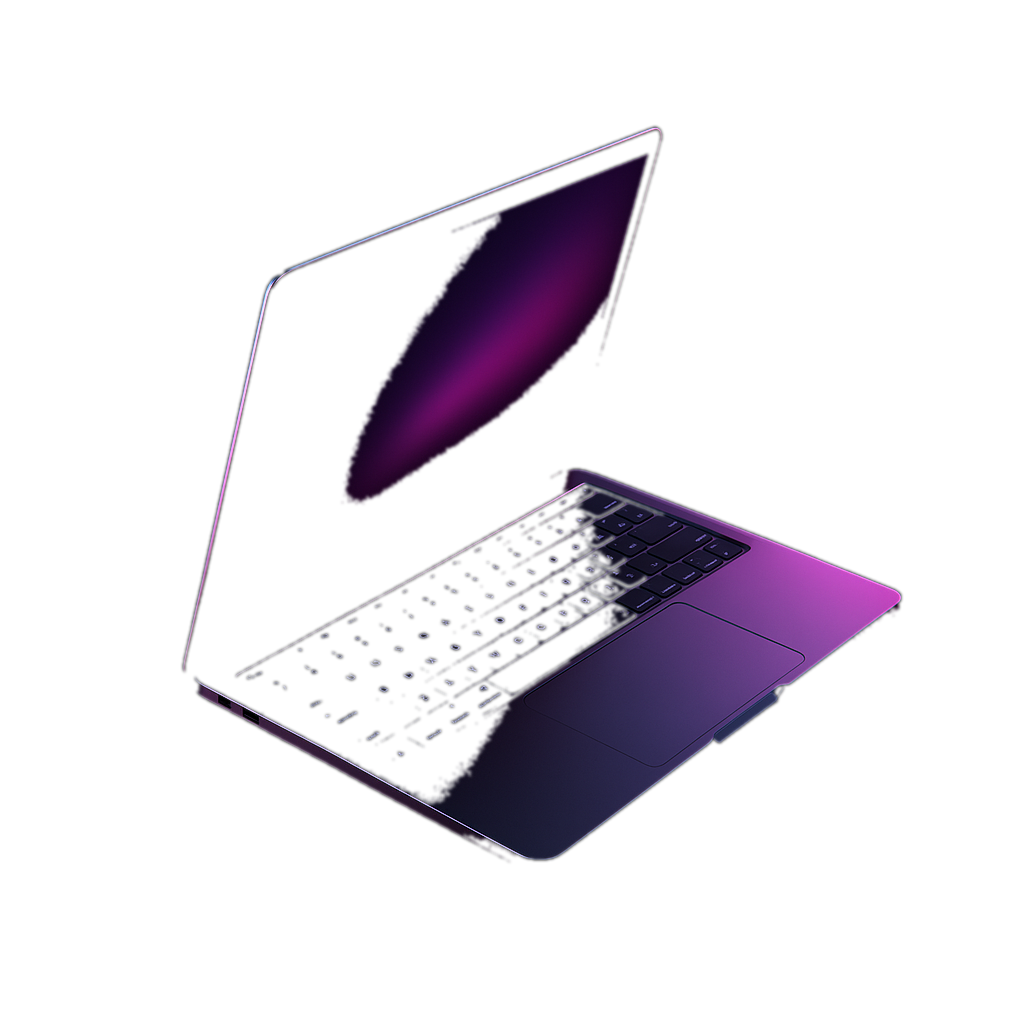
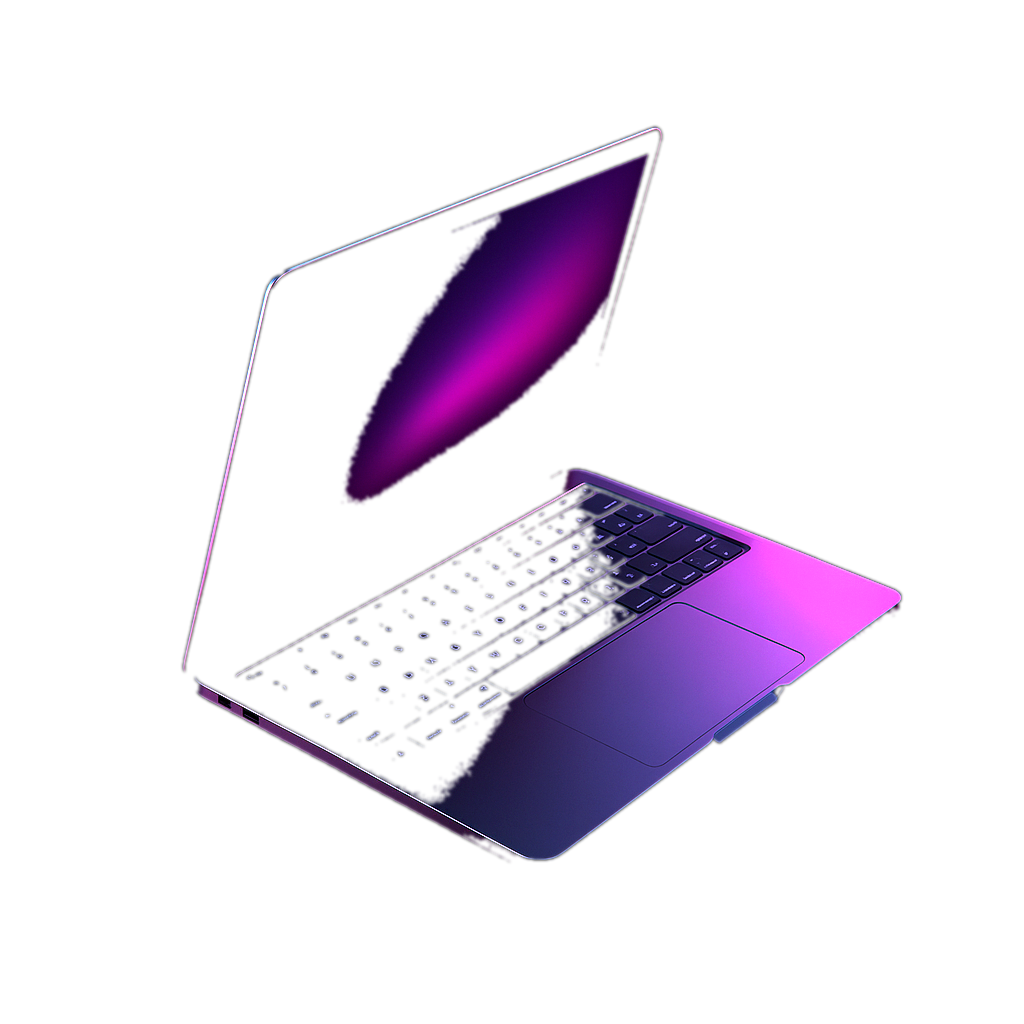
**All three upgrades — complete** - Brighter laptop: the AI key's balance ran out mid-render ("budget exceeded"), so I brightened and boosted the existing laptop render with image processing instead — it now reads much more clearly with stronger glow. For brand-new renders, top up via Profile → Mana

diff --git a/frontend/src/sections/ToolkitSection.tsx b/frontend/src/sections/ToolkitSection.tsx
@@ -1,77 +1,79 @@
-import React, { useRef } from "react";
+import React, { useEffect, useRef } from "react";
 import { motion, useMotionValue, useSpring, useTransform, MotionValue } from "framer-motion";
 import { FadeIn } from "../components/FadeIn";
 
-const Pedestal = () => (
-  <>
-    <div
-      className="absolute left-1/2 -translate-x-1/2 -bottom-9 w-[80%] h-[30px] pointer-events-none"
-      style={{
-        background: "radial-gradient(ellipse, rgba(182,0,168,0.38) 0%, rgba(118,33,176,0.16) 45%, transparent 70%)",
-        filter: "blur(7px)",
-      }}
-    />
-    <div
-      className="absolute left-1/2 -translate-x-1/2 -bottom-6 w-[62%] h-[20px] rounded-[50%] border border-[rgba(182,0,168,0.45)] pointer-events-none"
-      style={{ boxShadow: "0 0 20px rgba(182,0,168,0.35), inset 0 0 14px rgba(182,0,168,0.22)" }}
-    />
-  </>
-);
+const GlowPedestal = ({ glow }: { glow: MotionValue<number> }) => {
+  const opacity = useTransform(glow, (g) => 0.55 + 0.45 * g);
+  const scale = useTransform(glow, (g) => 1 + 0.18 * g);
+  return (
+    <>
+      <motion.div
+        className="absolute -bottom-9 w-[80%] h-[30px] pointer-events-none"
+        style={{
+          left: "50%",
+          x: "-50%",
+          opacity,
+          scale,
+          background: "radial-gradient(ellipse, rgba(182,0,168,0.38) 0%, rgba(118,33,176,0.16) 45%, transparent 70%)",
+          filter: "blur(7px)",
+        }}
+      />
+      <motion.div
+        className="absolute -bottom-6 w-[62%] h-[20px] rounded-[50%] border border-[rgba(182,0,168,0.45)] pointer-events-none"
+        style={{
+          left: "50%",
+          x: "-50%",
+          opacity,
+          scale,
+          boxShadow: "0 0 20px rgba(182,0,168,0.35), inset 0 0 14px rgba(182,0,168,0.22)",
+        }}
+      />
+    </>
+  );
+};
 
 const Laptop3D = () => (
-  <div className="relative">
-    <img
-      data-testid="toolkit-laptop"
-      src="./projects/toolkit-laptop.png"
-      alt="Laptop 3D render"
-      draggable={false}
-      loading="lazy"
-      className="w-[150px] sm:w-[210px] md:w-[260px] h-auto"
-    />
-    <Pedestal />
-  </div>
+  <img
+    data-testid="toolkit-laptop"
+    src="./projects/toolkit-laptop.png"
+    alt="Laptop 3D render"
+    draggable={false}
+    loading="lazy"
+    className="w-[150px] sm:w-[210px] md:w-[260px] h-auto"
+  />
 );
 
 const Keyboard3D = () => (
-  <div className="relative">
-    <img
-      data-testid="toolkit-keyboard"
-      src="./projects/toolkit-keyboard.png"
-      alt="Mechanical keyboard 3D render"
-      draggable={false}
-      loading="lazy"
-      className="w-[240px] sm:w-[340px] md:w-[420px] h-auto"
-    />
-    <Pedestal />
-  </div>
+  <img
+    data-testid="toolkit-keyboard"
+    src="./projects/toolkit-keyboard.png"
+    alt="Mechanical keyboard 3D render"
+    draggable={false}
+    loading="lazy"
+    className="w-[240px] sm:w-[340px] md:w-[420px] h-auto"
+  />
 );
 
 const Mouse3D = () => (
-  <div className="relative">
-    <img
-      data-testid="toolkit-mouse"
-      src="./projects/toolkit-mouse.png"
-      alt="Premium mouse 3D render"
-      draggable={false}
-      loading="lazy"
-      className="w-[100px] sm:w-[130px] md:w-[160px] h-auto"
-    />
-    <Pedestal />
-  </div>
+  <img
+    data-testid="toolkit-mouse"
+    src="./projects/toolkit-mouse.png"
+    alt="Premium mouse 3D render"
+    draggable={false}
+    loading="lazy"
+    className="w-[100px] sm:w-[130px] md:w-[160px] h-auto"
+  />
 );
 
 const Headphones3D = () => (
-  <div className="relative">
-    <img
-      data-testid="toolkit-headphones"
-      src="./projects/toolkit-headphones.png"
-      alt="Studio headphones 3D render"
-      draggable={false}
-      loading="lazy"
-      className="w-[130px] sm:w-[170px] md:w-[210px] h-auto"
-    />
-    <Pedestal />
-  </div>
+  <img
+    data-testid="toolkit-headphones"
+    src="./projects/toolkit-headphones.png"
+    alt="Studio headphones 3D render"
+    draggable={false}
+    loading="lazy"
+    className="w-[130px] sm:w-[170px] md:w-[210px] h-auto"
+  />
 );
 
 interface LayerProps {
@@ -87,13 +89,32 @@ interface LayerProps {
 const ParallaxLayer = ({ sx, sy, depth, className, floatDelay = 0, floatDuration = 6, children }: LayerProps) => {
   const x = useTransform(sx, (v) => v * depth * 70);
   const y = useTransform(sy, (v) => v * depth * 50);
+  const layerRef = useRef<HTMLDivElement>(null);
+  const glow = useMotionValue(0);
+  const glowSpring = useSpring(glow, { stiffness: 180, damping: 24 });
+
+  useEffect(() => {
+    if (!window.matchMedia("(pointer: fine)").matches) return;
+    const onMove = (e: MouseEvent) => {
+      const el = layerRef.current;
+      if (!el) return;
+      const r = el.getBoundingClientRect();
+      const d = Math.hypot(e.clientX - (r.left + r.width / 2), e.clientY - (r.top + r.height / 2));
+      glow.set(Math.max(0, 1 - d / 340));
+    };
+    window.addEventListener("mousemove", onMove);
+    return () => window.removeEventListener("mousemove", onMove);
+  }, [glow]);
+
   return (
-    <motion.div className={className} style={{ x, y, willChange: "transform" }}>
+    <motion.div ref={layerRef} className={className} style={{ x, y, willChange: "transform" }}>
       <motion.div
+        className="relative"
         animate={{ y: [0, -14, 0], rotate: [0, 2, 0] }}
         transition={{ duration: floatDuration, delay: floatDelay, repeat: Infinity, ease: "easeInOut" }}
       >
         {children}
+        <GlowPedestal glow={glowSpring} />
       </motion.div>
     </motion.div>
   );

diff --git a/frontend/src/sections/HeroSection.tsx b/frontend/src/sections/HeroSection.tsx
@@ -14,49 +14,59 @@ const MOBILE_DECK = [
 ];
 
 const MobileShowcase = () => {
-  const [index, setIndex] = useState(0);
-
-  useEffect(() => {
-    const id = window.setInterval(() => setIndex((i) => (i + 1) % MOBILE_DECK.length), 2200);
-    return () => window.clearInterval(id);
-  }, []);
+  const [[index, direction], setState] = useState<[number, number]>([0, 0]);
+  const paginate = (dir: number) =>
+    setState(([i]) => [(i + dir + MOBILE_DECK.length) % MOBILE_DECK.length, dir]);
 
   const prev = MOBILE_DECK[(index - 1 + MOBILE_DECK.length) % MOBILE_DECK.length];
   const next = MOBILE_DECK[(index + 1) % MOBILE_DECK.length];
 
   return (
-    <div data-testid="mobile-showcase" className="relative w-[240px] h-[170px]">
-      <div
-        className="absolute inset-0 -z-10 rounded-full"
-        style={{ background: "radial-gradient(circle, rgba(118,33,176,0.35) 0%, transparent 70%)", filter: "blur(20px)" }}
-      />
-      <img
-        src={prev}
-        alt=""
-        draggable={false}
-        className="absolute inset-0 w-full h-full object-cover rounded-2xl border border-white/15 opacity-40"
-        style={{ transform: "rotate(-9deg) translateX(-14px) scale(0.92)" }}
-      />
-      <img
-        src={next}
-        alt=""
-        draggable={false}
-        className="absolute inset-0 w-full h-full object-cover rounded-2xl border border-white/15 opacity-40"
-        style={{ transform: "rotate(9deg) translateX(14px) scale(0.92)" }}
-      />
-      <AnimatePresence mode="popLayout">
-        <motion.img
-          key={index}
-          src={MOBILE_DECK[index]}
-          alt="Project preview"
-          draggable={false}
-          className="absolute inset-0 w-full h-full object-cover rounded-2xl border border-white/25 shadow-2xl"
-          initial={{ opacity: 0, y: 40, scale: 0.85, rotate: 7 }}
-          animate={{ opacity: 1, y: 0, scale: 1, rotate: 0 }}
-          exit={{ opacity: 0, y: -40, scale: 0.9, rotate: -7 }}
-          transition={{ duration: 0.55, ease: [0.25, 0.1, 0.25, 1] }}
+    <div className="flex flex-col items-center gap-6">
+      <div data-testid="mobile-showcase" className="relative w-[240px] h-[170px]">
+        <div
+          className="absolute inset-0 -z-10 rounded-full"
+          style={{ background: "radial-gradient(circle, rgba(118,33,176,0.35) 0%, transparent 70%)", filter: "blur(20px)" }}
         />
-      </AnimatePresence>
+        <img
+          src={prev}
+          alt=""
+          draggable={false}
+          className="absolute inset-0 w-full h-full object-cover rounded-2xl border border-white/15 opacity-40"
+          style={{ transform: "rotate(-9deg) translateX(-14px) scale(0.92)" }}
+        />
+        <img
+          src={next}
+          alt=""
+          draggable={false}
+          className="absolute inset-0 w-full h-full object-cover rounded-2xl border border-white/15 opacity-40"
+          style={{ transform: "rotate(9deg) translateX(14px) scale(0.92)" }}
+        />
+        <AnimatePresence mode="popLayout" initial={false}>
+          <motion.img
+            key={index}
+            src={MOBILE_DECK[index]}
+            alt="Project preview"
+            draggable={false}
+            data-testid="mobile-showcase-card"
+            className="absolute inset-0 w-full h-full object-cover rounded-2xl border border-white/25 shadow-2xl touch-pan-y"
+            drag="x"
+            dragConstraints={{ left: 0, right: 0 }}
+            dragElastic={0.6}
+            onDragEnd={(_, info) => {
+              if (info.offset.x < -70) paginate(1);
+              else if (info.offset.x > 70) paginate(-1);
+            }}
+            initial={{ opacity: 0, x: direction >= 0 ? 130 : -130, scale: 0.85, rotate: direction >= 0 ? 8 : -8 }}
+            animate={{ opacity: 1, x: 0, scale: 1, rotate: 0 }}
+            exit={{ opacity: 0, x: direction >= 0 ? -130 : 130, scale: 0.85, rotate: direction >= 0 ? -8 : 8 }}
+            transition={{ duration: 0.45, ease: [0.25, 0.1, 0.25, 1] }}
+          />
+        </AnimatePresence>
+      </div>
+      <p data-testid="mobile-showcase-hint" className="text-[#D7E2EA] opacity-40 uppercase tracking-[0.3em] text-[10px]">
+        swipe
+      </p>
     </div>
   );
 };

diff --git a/memory/PRD.md b/memory/PRD.md
@@ -35,7 +35,8 @@ Dark (#0C0C0C) single-page 3D Creator portfolio landing page (originally specced
 - 01 The Golden Crumb (Client, corrected 2026-08-21) and 02 Tandoor Flame (Personal) from user screenshots; 03 Eagle Fitness Centre (Client, gym) added 2026-08-21. Sample projects (Nextlevel/Aura/Solaris) removed. Crops in /app/frontend/public/projects/ (gc-1..3, tf-1..3, gym-1..3 .jpg), PIL-cropped to tile ratios with brightness/contrast tweaks
 - Hero portrait (figma 3D character) REMOVED per user request (2026-08-21)
 - Contact buttons (2026-08-21): mailto: replaced with Gmail compose URL (mail.google.com/mail/?view=cm&fs=1&to=...) target _blank on ContactButton, SEND button, and both footer email links — verified by click test (popup opens Gmail). Production build rebuilt including public/_redirects (SPA fallback) for Cloudflare Pages: build cmd `yarn build`, output `build`, root `frontend`
-- ToolkitSection (2026-08-21): replaced "Trusted by bold brands" strip. 5 AI-generated photorealistic 3D renders (gpt-image-1, quality high, via EMERGENT_LLM_KEY): keyboard, mouse, headphones, chrome sphere, glass torus — dark metallic + purple/magenta rim light, pure black crushed, shown with mix-blend-screen over per-layer #0C0C0C backdrops (transformed ancestors isolate blending). Cursor parallax (spring depth layers) + container rotateX/rotateY tilt + idle float loops. Generator script: /app/backend/gen_toolkit.py
+- ToolkitSection (2026-08-21): replaced "Trusted by bold brands" strip. 4 AI-generated photorealistic 3D renders (gpt-image-1, quality high, via EMERGENT_LLM_KEY): keyboard, mouse, headphones, laptop (sphere & torus removed per user) — dark metallic + purple/magenta rim light, flood-fill alpha cutouts. Cursor parallax (spring depth layers) + container rotateX/rotateY tilt + idle float loops. GlowPedestal holo-rings brighten/scale on cursor proximity (340px falloff, spring). Laptop brightened via PIL (key budget exhausted — user must top up Universal Key for new renders). Generator script: /app/backend/gen_toolkit.py
+- Mobile hero (2026-08-21): MobileShowcase — swipeable fanned project-card deck (drag="x", ±70px threshold, direction-aware slide transitions), SWIPE hint, sm:hidden; desktop untouched
 - MouseTrail (2026-08-21): hero-section-only cursor trail — spawns random project crops behind cursor with random ±12° rotation, floats up, fades after ~1s, pointer-events-none, desktop-only (pointer:fine), throttled by 120px cursor travel; enlarged to w-40/52 and pool extended with trail-1..4.jpg extra crops
 - Testimonials now REAL reviews (2026-08-21, user-provided, typos fixed, repeated x2): Eagle Fitness Centre, The Golden Crumb, Tandoor Flame; pfps are generated icon PNGs (dumbbell/flame/wheat lucide icons on white) at /projects/pfp-*.png
 ## Deployment config (2026-08-21)
